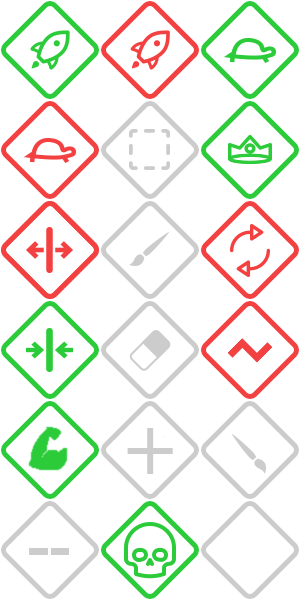
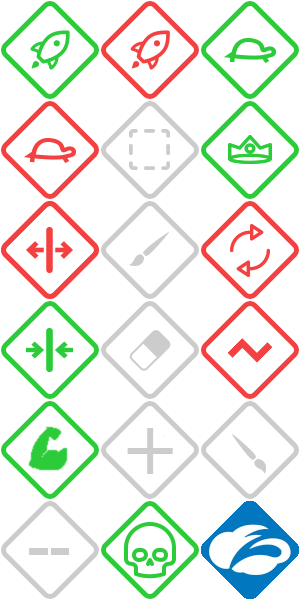
Add Yscaler modifier

Changed region(s): [[0.66, 0.81, 1.0, 1.0]]

diff --git a/src/server/model/Bonus/BonusSelfYscaler.js b/src/server/model/Bonus/BonusSelfYscaler.js
@@ -1,0 +1,25 @@
+/**
+ * Yscaler Bonus
+ *
+ * @param {Number} x
+ * @param {Number} y
+ */
+function BonusSelfYscaler(x, y)
+{
+    BonusSelf.call(this, x, y);
+}
+
+BonusSelfYscaler.prototype = Object.create(BonusSelf.prototype);
+BonusSelfYscaler.prototype.constructor = BonusSelfYscaler;
+
+/**
+ * Get effects
+ *
+ * @param {Avatar} avatar
+ *
+ * @return {Array}
+ */
+BonusSelfYscaler.prototype.getEffects = function(avatar)
+{
+    return [['velocity', -BaseAvatar.prototype.velocity]];
+};

diff --git a/src/shared/model/BaseAvatar.js b/src/shared/model/BaseAvatar.js
@@ -198,7 +198,7 @@ BaseAvatar.prototype.updatePosition = function(step)
  */
 BaseAvatar.prototype.setVelocity = function(velocity)
 {
-    velocity = Math.max(velocity, BaseAvatar.prototype.velocity/2);
+    velocity = Math.max(velocity, BaseAvatar.prototype.velocity/10);
 
     if (this.velocity !== velocity) {
         this.velocity = velocity;

diff --git a/src/client/model/RoomConfig.js b/src/client/model/RoomConfig.js
@@ -36,7 +36,8 @@ RoomConfig.prototype.bonusClasses = {
     BonusGameProbability: 'bonus-game-probability',
     BonusAllColorBlack: 'bonus-all-color-black',
     BonusAllDashed: 'bonus-all-dashed',
-    BonusSelfExplode: 'bonus-self-explode'
+    BonusSelfExplode: 'bonus-self-explode',
+    BonusSelfYscaler: 'bonus-self-yscaler'
 };
 
 /**

diff --git a/src/server/model/RoomConfig.js b/src/server/model/RoomConfig.js
@@ -33,7 +33,8 @@ RoomConfig.prototype.bonusTypes = {
     BonusGameProbability: BonusGameProbability,
     BonusAllColorBlack: BonusAllColorBlack,
     BonusAllDashed: BonusAllDashed,
-    BonusSelfExplode: BonusSelfExplode
+    BonusSelfExplode: BonusSelfExplode,
+    BonusSelfYscaler: BonusSelfYscaler
 };
 
 /**

diff --git a/src/sass/pages/_room.scss b/src/sass/pages/_room.scss
@@ -651,6 +651,9 @@
                 &.bonus-self-explode {
                     @include bonus-sprite(1, 5);
                 }
+                &.bonus-self-yscaler {
+                    @include bonus-sprite(2, 5);
+                }
 
                 i {
                     width: 16px;

diff --git a/src/shared/model/BaseRoomConfig.js b/src/shared/model/BaseRoomConfig.js
@@ -31,7 +31,8 @@ function BaseRoomConfig(room)
         BonusGameProbability: true,
         BonusAllColorBlack: true,
         BonusAllDashed: true,
-        BonusSelfExplode: true
+        BonusSelfExplode: true,
+        BonusSelfYscaler: true
     };
 }
 

diff --git a/src/client/manager/BonusManager.js b/src/client/manager/BonusManager.js
@@ -47,7 +47,8 @@ BonusManager.prototype.spritePosition = [
     'BonusGameProbability',
     'BonusAllColorBlack',
     'BonusAllDashed',
-    'BonusSelfExplode'
+    'BonusSelfExplode',
+    'BonusSelfYscaler'
 ];
 
 /**

diff --git a/src/client/model/preset/DefaultPreset.js b/src/client/model/preset/DefaultPreset.js
@@ -38,5 +38,6 @@ DefaultPreset.prototype.bonuses = [
     'BonusGameProbability',
     'BonusAllColorBlack',
     'BonusAllDashed',
-    'BonusSelfExplode'
+    'BonusSelfExplode',
+    'BonusSelfYscaler'
 ];
